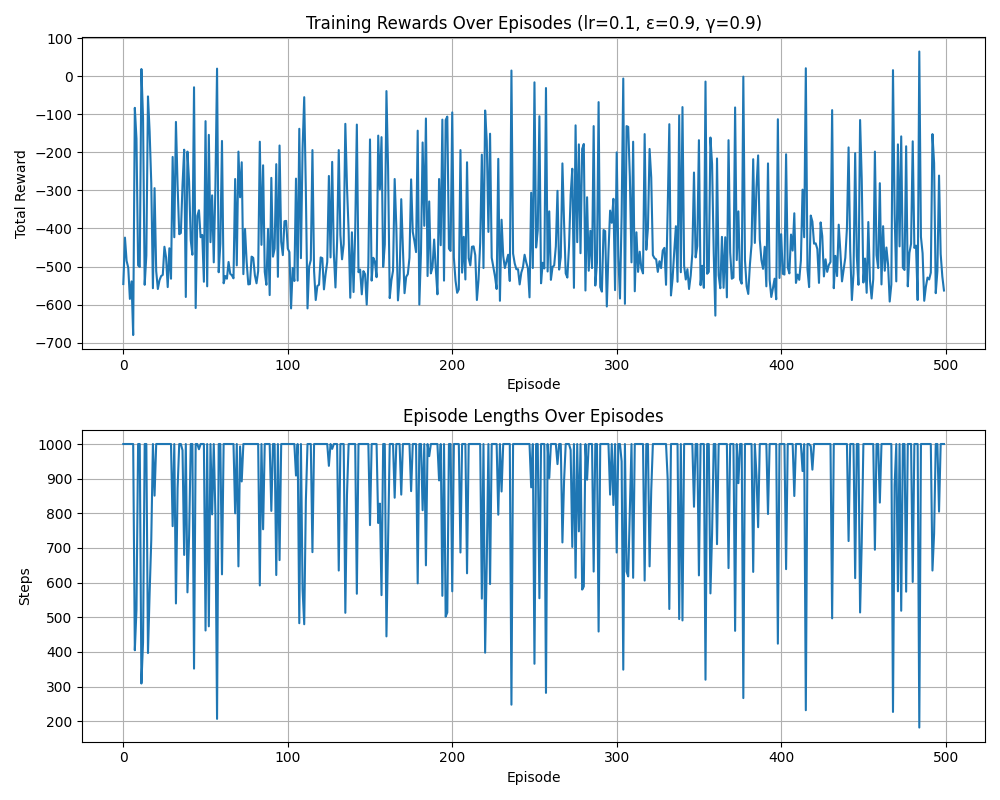
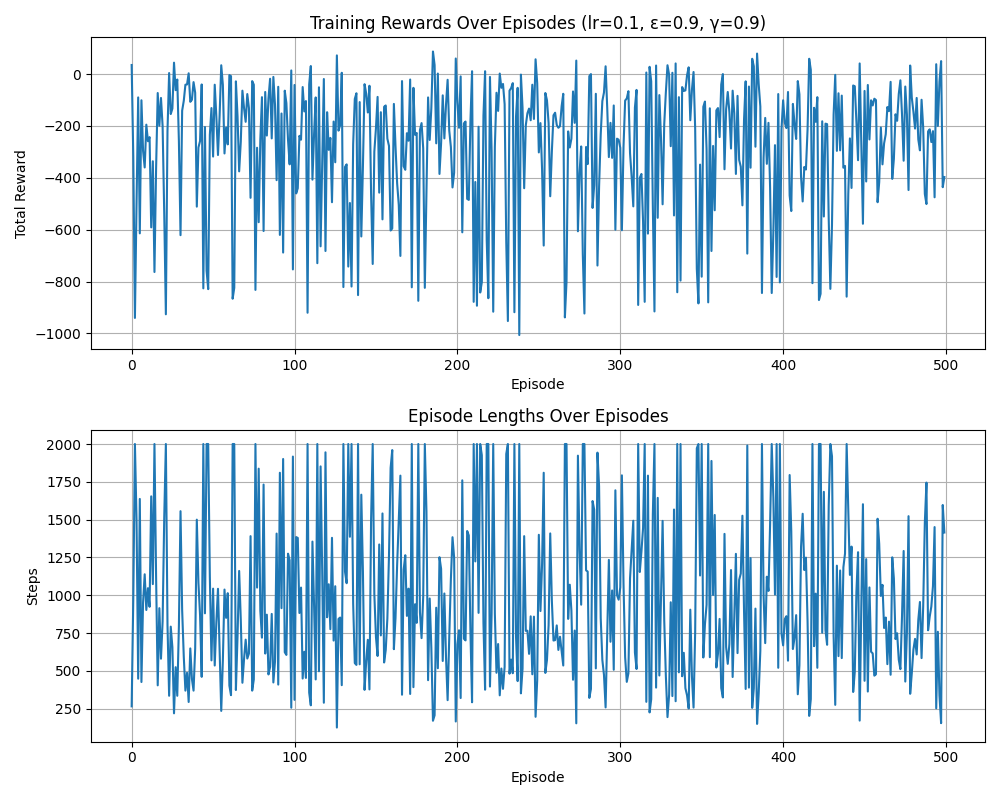
fully rendering and learning now! kind

diff --git a/testbed.py b/testbed.py
@@ -16,13 +16,13 @@ from hex_grid_world import HexGridWorld
 from q_learning import QLearningAgent
 
 
-def train_agent() -> Tuple[List[int], List[int]]:
+def train_agent(animate: bool = False) -> Tuple[List[int], List[int]]:
     episodes = 500
     learning_rate = 0.1
     discount_factor = 0.9
     epsilon = 0.9
 
-    world = HexGridWorld(train=True, worldType=1, animate=True)
+    world = HexGridWorld(train=True, worldType=1, animate=animate)
 
     # Create Q-learning agent with fixed hyperparameters (no decay)
     if len(world.colony) > 1:
@@ -98,7 +98,7 @@ def plot_training_results(episode_rewards: List[int], episode_lengths: List[int]
 
 def main() -> None:
     print("Starting Q-learning training: 500 episodes with fixed hyperparameters")
-    rewards, lengths = train_agent()
+    rewards, lengths = train_agent( animate=True)
     plot_training_results(rewards, lengths)
     print("Training completed!")
 

diff --git a/src/hex_grid_world.py b/src/hex_grid_world.py
@@ -101,7 +101,7 @@ class HexGridWorld(gym.Env):
             self.grid.fadeAllTrails()
 
         for ant in self.colony:
-            if ant.age >= 1000:
+            if ant.age >= 5000:
                 ant.die()
                 self.colony.remove(ant)
                 del ant
